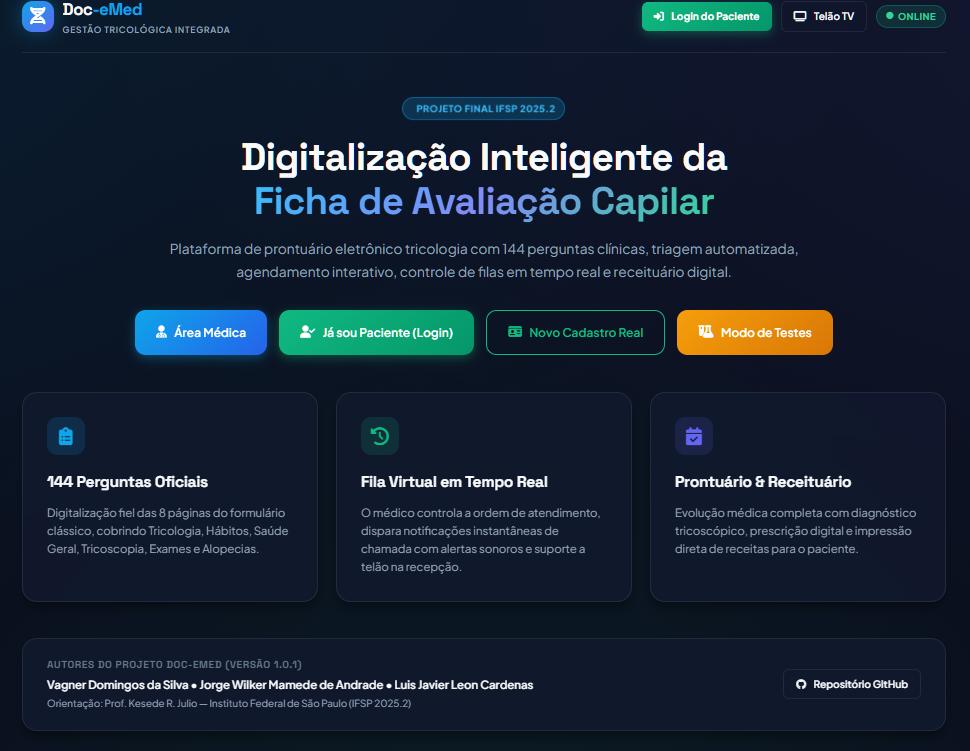
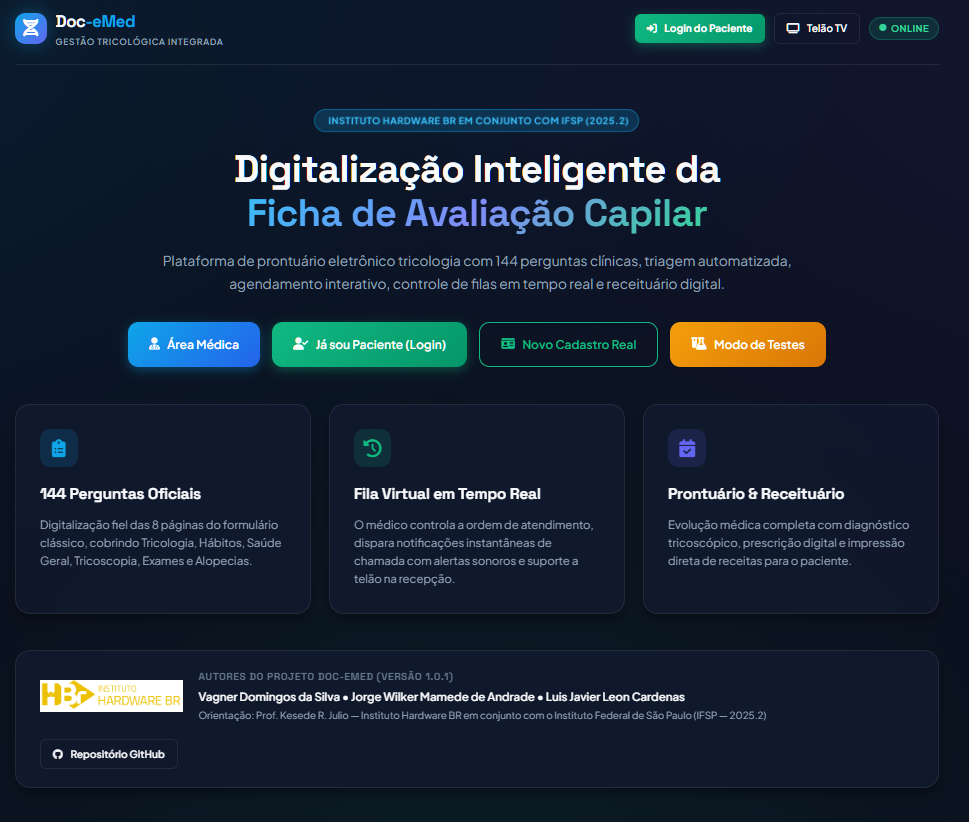
docs: atualizacao da imagem da tela inicial e texto descritivo no README

diff --git a/README.md b/README.md
@@ -92,15 +92,15 @@ Abaixo são demonstradas as principais telas da aplicação, acompanhadas de sua
   <img src="./docs/images/00-landing-page-oficial.png" alt="Landing Page Oficial Doc-eMed" width="95%">
 </div>
 
-* **Barra de Navegação Superior:** Logotipo com identidade visual gradiente, botão de acesso direto **"Login do Paciente"**, link para o **"Telão TV"** e badge de status do sistema online em tempo real.
-* **Seção de Boas-Vindas (Hero):** Título com gradiente dinâmico, identificação oficial do projeto acadêmico IFSP 2025.2 e descrição dos recursos de ponta.
-* **4 Botões de Ação Imediata:**
-  1. 🩺 **Área Médica:** Acesso exclusivo ao corpo clínico e gestores.
-  2. 👤 **Já sou Paciente (Login):** Entrada direta para clientes já cadastrados.
-  3. 💳 **Novo Cadastro Real:** Abertura formal de prontuário eletrônico completo.
-  4. 🧪 **Modo de Testes:** Demonstração expressa com fluxo ágil e telão embutido.
-* **Cards de Recursos & Destaques:** Resumo das 144 perguntas, do controle de filas em tempo real e do módulo de prontuário e receituário digital.
-* **Rodapé com Autoria:** Créditos da equipe de desenvolvedores e professor orientador.
+* **Barra de Navegação Superior:** Logotipo estilizado com identidade visual tricologia, botão de acesso direto **"Login do Paciente"** para clientes cadastrados, atalho para o **"Telão TV"** e badge de status do sistema online em tempo real.
+* **Seção de Boas-Vindas (Hero):** Badge superior com identificação institucional oficial (**`INSTITUTO HARDWARE BR EM CONJUNTO COM IFSP (2025.2)`**), título com gradiente dinâmico e síntese dos recursos de prontuário, triagem e fila virtual.
+* **4 Botões de Acesso Imediato:**
+  1. 🩺 **Área Médica:** Acesso exclusivo ao corpo clínico e gestores com login seguro.
+  2. 👤 **Já sou Paciente (Login):** Entrada direta para pacientes previamente cadastrados.
+  3. 💳 **Novo Cadastro Real:** Formulário oficial em 4 etapas para abertura de prontuário eletrônico completo.
+  4. 🧪 **Modo de Testes:** Demonstração expressa com fluxo ágil e telão de chamadas embutido na tela.
+* **Cards de Recursos & Destaques:** Apresentação das 144 perguntas clínicas oficiais, da fila virtual em tempo real (SSE) e do módulo de evolução médica com receituário digital.
+* **Rodapé Institucional com Identidade Visual:** Logotipo oficial do **Instituto Hardware BR**, autoria dos desenvolvedores e orientação acadêmica do Prof. Kesede R. Julio.
 
 ---
 
